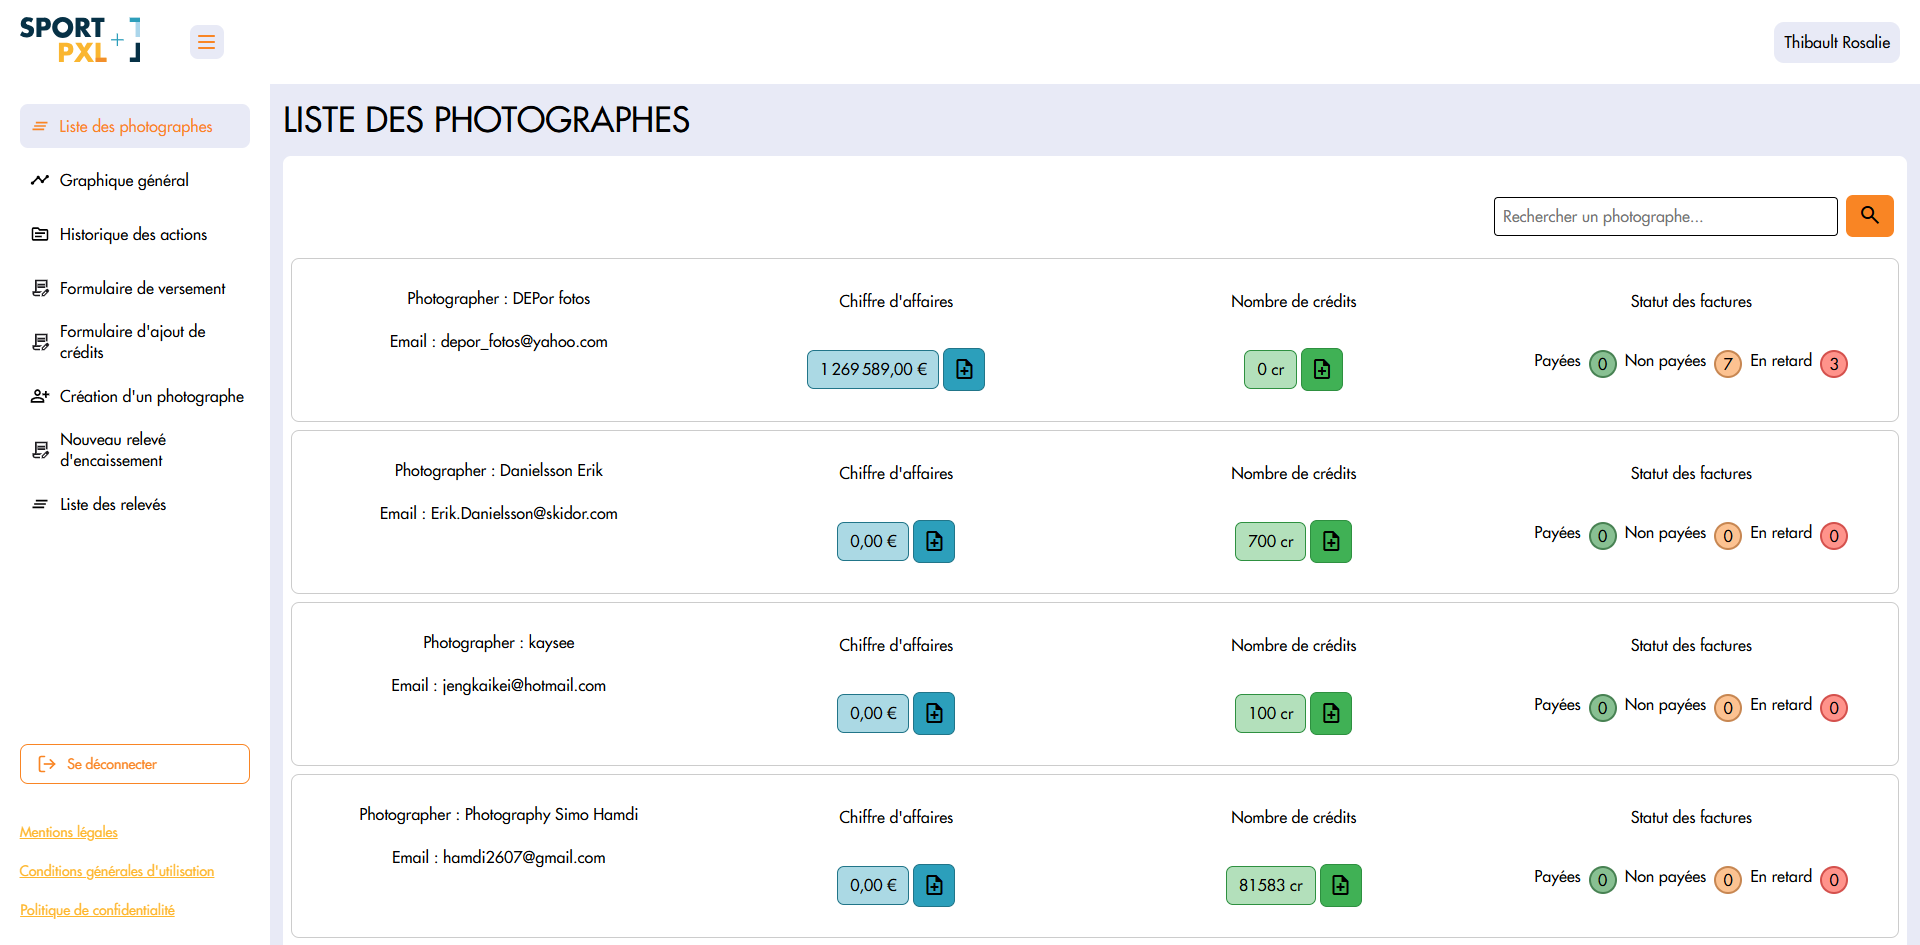
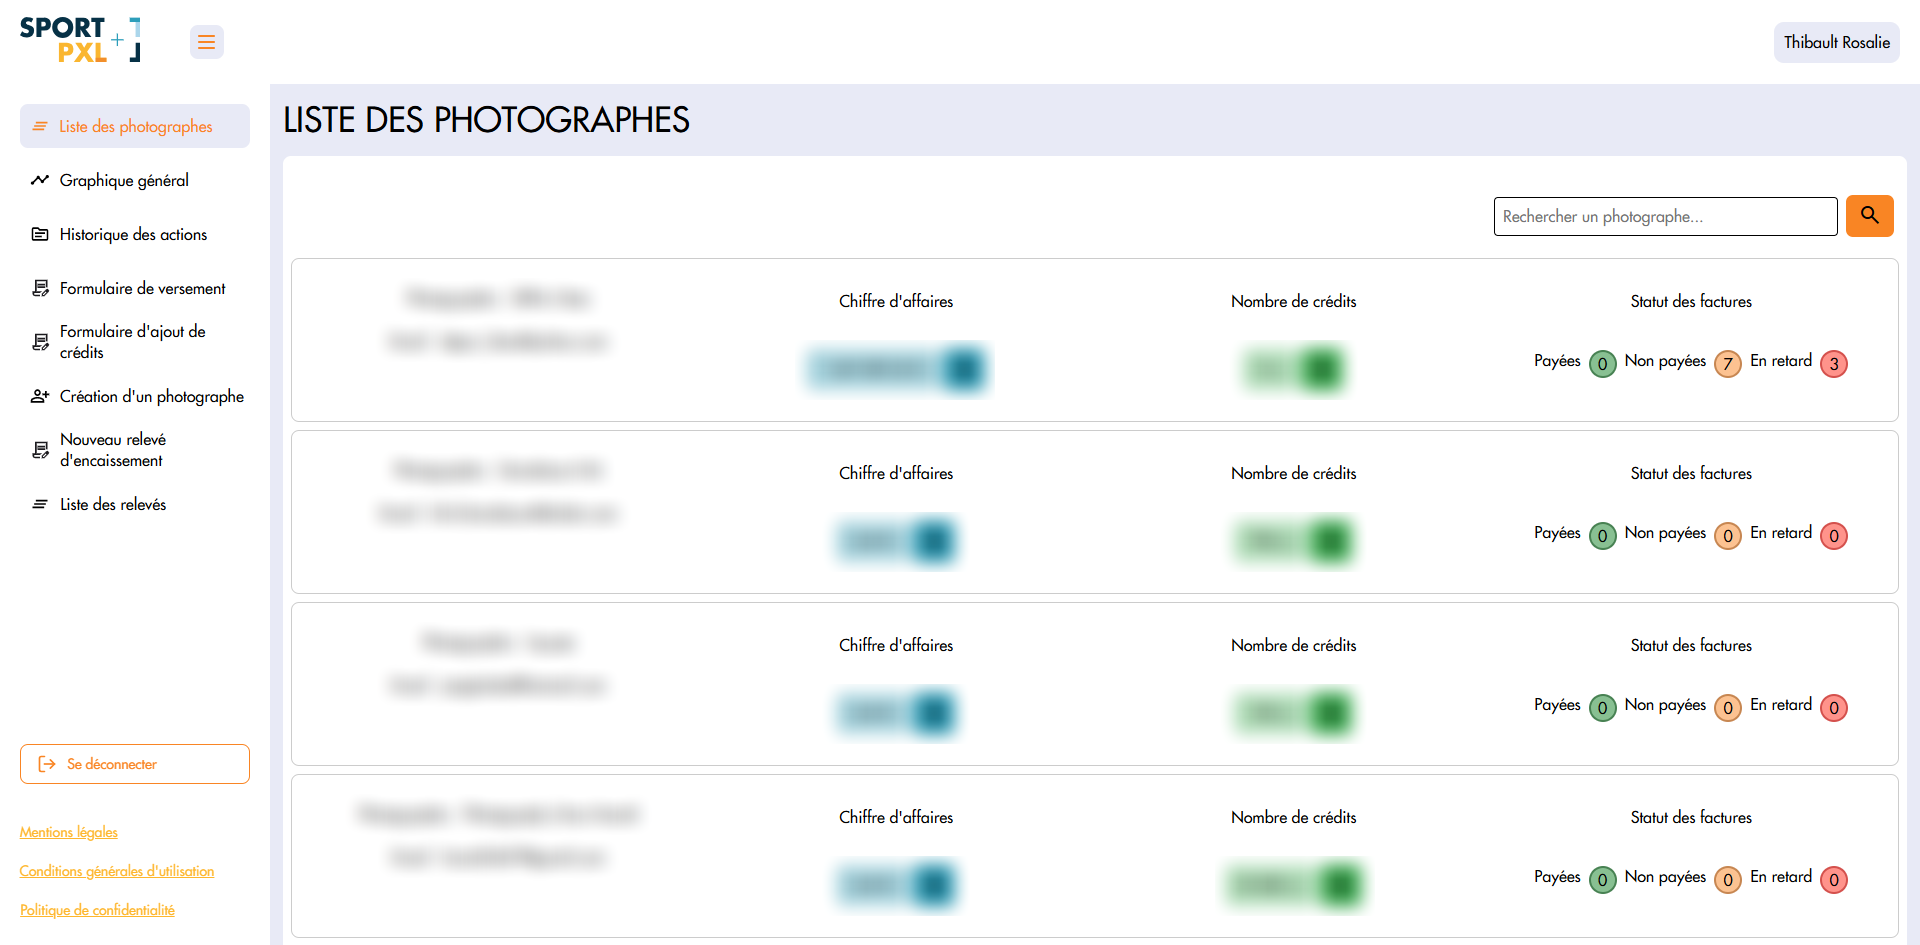
Capture SportPXL : données des clients floutées
La couverture du projet montrait les noms, e-mails, chiffres d'affaires et
crédits de vrais photographes clients de SportPXL. Ces zones sont floutées et la
description de l'image dit ce qu'elle montre.

diff --git a/src/content/work/boardpxl.md b/src/content/work/boardpxl.md
@@ -10,7 +10,7 @@ tags:
   - Docker
 githubUrl: https://github.com/Trosalie/projetsportpxl
 img: ../../assets/projets/boardpxl.png
-img_alt: Interface du tableau de bord SportPXL affichant la liste des transactions et le solde de crédits d'un photographe.
+img_alt: "Liste des photographes du tableau de bord SportPXL : pour chacun, son chiffre d'affaires, ses crédits et le statut de ses factures. Les noms, e-mails et montants des clients sont floutés."
 period: 2025 – 2026
 context: SAÉ de BUT Informatique
 team: Équipe de 5

diff --git a/src/content/work-en/boardpxl.md b/src/content/work-en/boardpxl.md
@@ -10,7 +10,7 @@ tags:
   - Docker
 githubUrl: https://github.com/Trosalie/projetsportpxl
 img: ../../assets/projets/boardpxl.png
-img_alt: SportPXL dashboard interface showing a photographer's transaction list and credit balance.
+img_alt: "Photographer list in the SportPXL dashboard: revenue, credits and invoice status for each. Client names, emails and amounts are blurred."
 period: 2025 – 2026
 context: SAÉ project, BUT Computer Science
 team: Team of 5
